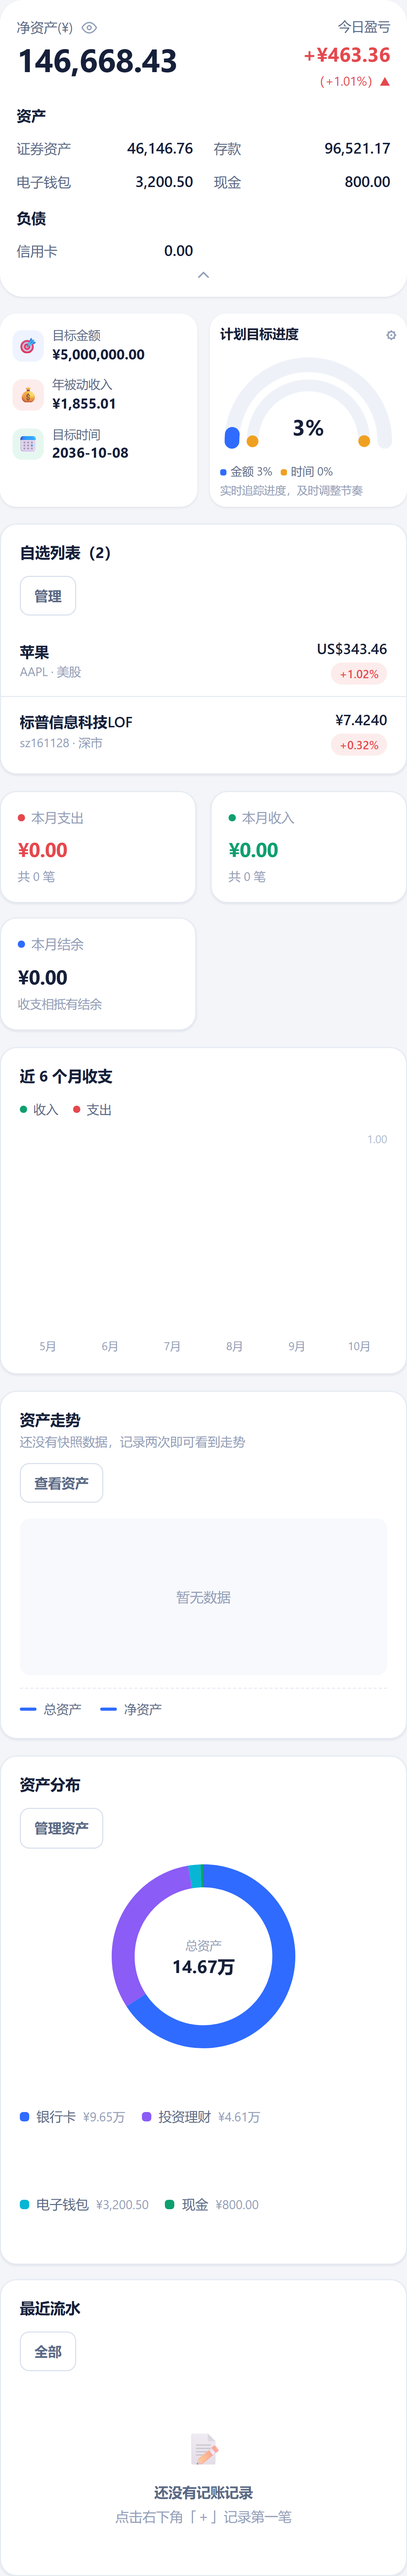
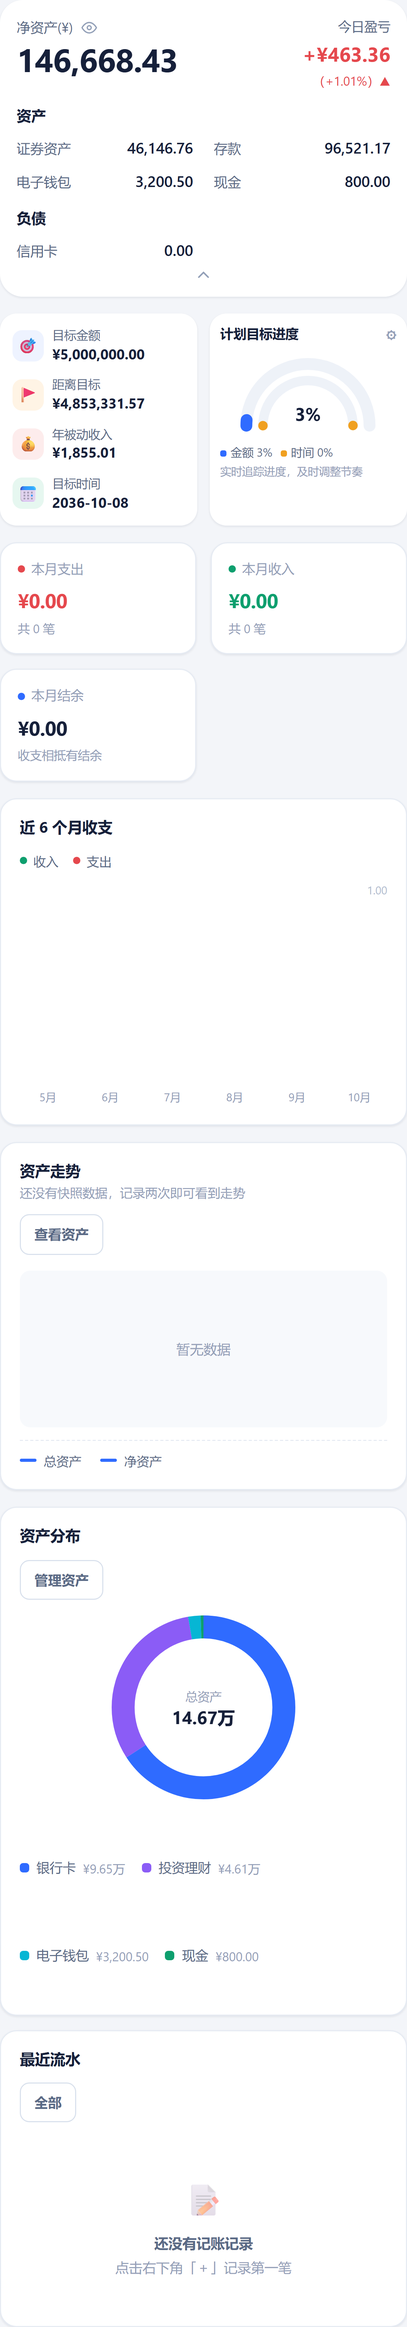
feat: 净资产卡今日盈亏下新增「总盈亏」（持仓市值−成本，红涨绿跌，随眼睛打码）（版本 20261019i）

diff --git a/money-ledger/js/views.js b/money-ledger/js/views.js
@@ -11,23 +11,23 @@ import {
   accountCash, tradesOfHolding, holdingDays, firstTradeDate, isOpenHolding,
   fxRate, holdingCurrency, fxSummary, hasFxMissingHolding, holdingPrice,
   holdingFxMissing, goalProgress,
-} from './state.js?v=20261019h'
+} from './state.js?v=20261019i'
 import {
   mountDonut, mountBars, mountArea, mountMultiArea, legendHtml,
   multiLegendHtml, rankingHtml,
-} from './charts.js?v=20261019h'
+} from './charts.js?v=20261019i'
 import {
   openRecordSheet, openAccountSheet, openCategorySheet, removeCategory,
   openHelpSheet, openHoldingSheet, openTradeSheet, openTradesSheet,
   openGoalSheet,
-} from './sheets.js?v=20261019h'
-import { displayCode, marketLabel, CURRENCY_SYMBOL } from './quotes.js?v=20261019h'
-import { allowlistInfo, normalizePhone } from './access.js?v=20261019h'
-import { confirmDialog, toastOk, toastErr, describeError } from './ui.js?v=20261019h'
+} from './sheets.js?v=20261019i'
+import { displayCode, marketLabel, CURRENCY_SYMBOL } from './quotes.js?v=20261019i'
+import { allowlistInfo, normalizePhone } from './access.js?v=20261019i'
+import { confirmDialog, toastOk, toastErr, describeError } from './ui.js?v=20261019i'
 import {
   escapeHtml, formatAmount, formatCompact, formatSigned, monthLabel,
   shortMonthLabel, shiftMonth, friendlyDate, toNumber, currentMonthKey, initialsOf,
-} from './util.js?v=20261019h'
+} from './util.js?v=20261019i'
 
 /* ============================================================
    页面渲染
@@ -400,6 +400,17 @@ export function renderDashboard(pageEl) {
          <div class="nw-day__pct num ${cls}">${pctText}${arrow}</div>`
   }
 
+  // 总盈亏：持仓市值 − 成本（只统计填过成本价的持仓）
+  let profitHtml = '<div class="nw-day__value num t-muted">--</div>'
+  if (pf.profit !== null) {
+    const cls = pf.profit > 0 ? 't-up' : pf.profit < 0 ? 't-down' : 't-muted'
+    const pctText = pf.profitPct !== null ? `（${pf.profitPct >= 0 ? '+' : ''}${(pf.profitPct * 100).toFixed(2)}%）` : ''
+    profitHtml = nwMasked
+      ? '<div class="nw-day__value num">******</div>'
+      : `<div class="nw-day__value num ${cls}">${signedMoney(pf.profit)}</div>
+         ${pctText ? `<div class="nw-day__pct num ${cls}">${pctText}</div>` : ''}`
+  }
+
   const { balances } = netWorthSummary()
   const assetRows = nwAssetBuckets(balances)
   const liabilityRows = nwLiabilityBuckets(balances)
@@ -419,8 +430,14 @@ export function renderDashboard(pageEl) {
           <div class="nw-card__value num">${nwMasked ? '******' : formatAmount(netWorth)}</div>
         </div>
         <div class="nw-day">
-          <div class="nw-day__label">今日盈亏</div>
-          ${dayHtml}
+          <div class="nw-day__block">
+            <div class="nw-day__label">今日盈亏</div>
+            ${dayHtml}
+          </div>
+          <div class="nw-day__block">
+            <div class="nw-day__label">总盈亏</div>
+            ${profitHtml}
+          </div>
         </div>
       </div>
 

diff --git a/money-ledger/js/app.js b/money-ledger/js/app.js
@@ -1,21 +1,21 @@
-import { cloud } from './cloud.js?v=20261019h'
-import * as store from './store.js?v=20261019h'
+import { cloud } from './cloud.js?v=20261019i'
+import * as store from './store.js?v=20261019i'
 import {
   state, loadAll, ensureDefaultCategories, setChangeListener, setRenderListener,
   setNavigator, setLogoutHandler, recordTodaySnapshot, activeAccounts,
   refreshQuotes, ensureOpeningTrades, openHoldings,
-} from './state.js?v=20261019h'
-import { PAGES } from './views.js?v=20261019h'
-import { reflowCharts } from './charts.js?v=20261019h'
-import { openRecordSheet } from './sheets.js?v=20261019h'
+} from './state.js?v=20261019i'
+import { PAGES } from './views.js?v=20261019i'
+import { reflowCharts } from './charts.js?v=20261019i'
+import { openRecordSheet } from './sheets.js?v=20261019i'
 import {
   toastOk, toastErr, describeError, setBusy, skeletonCard,
-} from './ui.js?v=20261019h'
-import { escapeHtml, initialsOf, monthLabel, todayISO, debounce } from './util.js?v=20261019h'
+} from './ui.js?v=20261019i'
+import { escapeHtml, initialsOf, monthLabel, todayISO, debounce } from './util.js?v=20261019i'
 import {
   checkInvite, loadAllowlist, allowlistInfo, phoneOfUser,
   rememberPhone, rememberedPhone,
-} from './access.js?v=20261019h'
+} from './access.js?v=20261019i'
 
 /* ============================================================
    启动流程

diff --git a/money-ledger/js/sheets.js b/money-ledger/js/sheets.js
@@ -1,4 +1,4 @@
-import * as store from './store.js?v=20261019h'
+import * as store from './store.js?v=20261019i'
 import {
   state, categoriesOf, ACCOUNT_TYPES, SUBTYPES, typeMeta, notifyChange,
   loadAll, refreshQuotes, requestRender, holdingsOfAccount, accountById,
@@ -6,18 +6,18 @@ import {
   holdingPrice, holdingMarketValue, holdingProfit, holdingDayProfit,
   buildOpeningTrade, fxRate, holdingCurrency,
   goal, saveGoal,
-} from './state.js?v=20261019h'
+} from './state.js?v=20261019i'
 import {
   MARKET_GROUPS, groupOfMarket, normalizeSymbol, marketOf, lookupSymbol,
   displayCode, CURRENCY_SYMBOL, currencyOf,
-} from './quotes.js?v=20261019h'
+} from './quotes.js?v=20261019i'
 import {
   openSheet, toastOk, toastErr, describeError, confirmDialog, setBusy,
-} from './ui.js?v=20261019h'
+} from './ui.js?v=20261019i'
 import {
   escapeHtml, html, parseAmount, toNumber, todayISO, PALETTE, colorByName,
   safeColor, formatAmount, formatSigned, friendlyDate,
-} from './util.js?v=20261019h'
+} from './util.js?v=20261019i'
 
 /* ============================================================
    各类表单弹层

diff --git a/money-ledger/index.html b/money-ledger/index.html
@@ -7,7 +7,7 @@
 <meta name="robots" content="noindex, nofollow, noarchive">
 <meta name="description" content="个人日常生活收支记录与金融资产跟踪工具（邀请制，仅受邀账号可登录）" data-page-node-id="nBEcCVth9CTZxzyRJ1UzG0">
 <title>生活记账本 · 收支与资产管理</title>
-<link rel="stylesheet" href="styles.css?v=20261019h" data-page-node-id="tWSEwcKCKjWB3yE5e0iAGO">
+<link rel="stylesheet" href="styles.css?v=20261019i" data-page-node-id="tWSEwcKCKjWB3yE5e0iAGO">
 </head>
 <body data-page-node-id="PG4yz4NseFFerv4Riaf9lA">
 
@@ -129,6 +129,6 @@
 <div id="toast-root" class="toast-root" aria-live="polite" data-page-node-id="mknPdPXrWdIyMgrlTxMfX6"></div>
 
 <script src="https://cdn.jsdelivr.net/npm/@tencent-ai/workbuddy-cloud-sdk@dev/lib/index.global.js"></script>
-<script type="module" src="js/app.js?v=20261019h"></script>
+<script type="module" src="js/app.js?v=20261019i"></script>
 </body>
 </html>

diff --git a/money-ledger/styles.css b/money-ledger/styles.css
@@ -944,9 +944,13 @@ ul { margin: 0; padding: 0; list-style: none; }
   font-size: 31px; font-weight: 700; letter-spacing: -.5px; line-height: 1.25; margin-top: 2px;
   overflow: hidden; text-overflow: ellipsis; white-space: nowrap;
 }
-.nw-day { text-align: right; flex: 0 0 auto; max-width: 46%; }
+.nw-day {
+  display: flex; flex-direction: column; align-items: flex-end; gap: 10px;
+  text-align: right; flex: 0 0 auto; max-width: 48%;
+}
+.nw-day__block { min-width: 0; }
 .nw-day__label { font-size: 12.5px; color: var(--text-2); }
-.nw-day__value { font-size: 19px; font-weight: 700; margin-top: 2px; }
+.nw-day__value { font-size: 18px; font-weight: 700; margin-top: 2px; line-height: 1.2; }
 .nw-day__pct { font-size: 12px; margin-top: 1px; }
 .nw-card__body.is-collapsed { display: none; }
 .nw-section { margin-top: 14px; }

diff --git a/money-ledger/js/state.js b/money-ledger/js/state.js
@@ -1,8 +1,8 @@
-import * as store from './store.js?v=20261019h'
-import { fetchQuotes, fetchFxRates, currencyOf, CURRENCY_LABEL } from './quotes.js?v=20261019h'
+import * as store from './store.js?v=20261019i'
+import { fetchQuotes, fetchFxRates, currencyOf, CURRENCY_LABEL } from './quotes.js?v=20261019i'
 import {
   toNumber, monthKeyOf, currentMonthKey, todayISO, colorByName, safeColor,
-} from './util.js?v=20261019h'
+} from './util.js?v=20261019i'
 
 /* ============================================================
    全局状态与派生计算

diff --git a/money-ledger/js/access.js b/money-ledger/js/access.js
@@ -13,7 +13,7 @@
    名单为空或读取失败时不做限制（fail-open），避免把管理者自己锁在门外。
    ============================================================ */
 
-import * as store from './store.js?v=20261019h'
+import * as store from './store.js?v=20261019i'
 
 const SALT = 'life-ledger-invite-v1:'
 const CACHE_TTL = 5 * 60 * 1000

diff --git a/money-ledger/js/charts.js b/money-ledger/js/charts.js
@@ -1,4 +1,4 @@
-import { escapeHtml, formatAmount, formatCompact } from './util.js?v=20261019h'
+import { escapeHtml, formatAmount, formatCompact } from './util.js?v=20261019i'
 
 /* ============================================================
    图表：按容器实际宽度绘制，文本框不缩放

diff --git a/money-ledger/js/cloud.js b/money-ledger/js/cloud.js
@@ -1,4 +1,4 @@
-import { PUBLIC_CONFIG } from './config.js?v=20261019h'
+import { PUBLIC_CONFIG } from './config.js?v=20261019i'
 
 /**
  * 云服务客户端：全应用只初始化一次，Auth / Database / Storage / LLM 共用同一实例。

diff --git a/money-ledger/js/quotes.js b/money-ledger/js/quotes.js
@@ -1,4 +1,4 @@
-import { toNumber } from './util.js?v=20261019h'
+import { toNumber } from './util.js?v=20261019i'
 
 /* ============================================================
    行情数据模块

diff --git a/money-ledger/js/store.js b/money-ledger/js/store.js
@@ -1,4 +1,4 @@
-import { cloud } from './cloud.js?v=20261019h'
+import { cloud } from './cloud.js?v=20261019i'
 
 /* ============================================================
    数据访问层

diff --git a/money-ledger/js/ui.js b/money-ledger/js/ui.js
@@ -1,4 +1,4 @@
-import { escapeHtml, html } from './util.js?v=20261019h'
+import { escapeHtml, html } from './util.js?v=20261019i'
 
 /* ---------------- Toast ---------------- */
 
